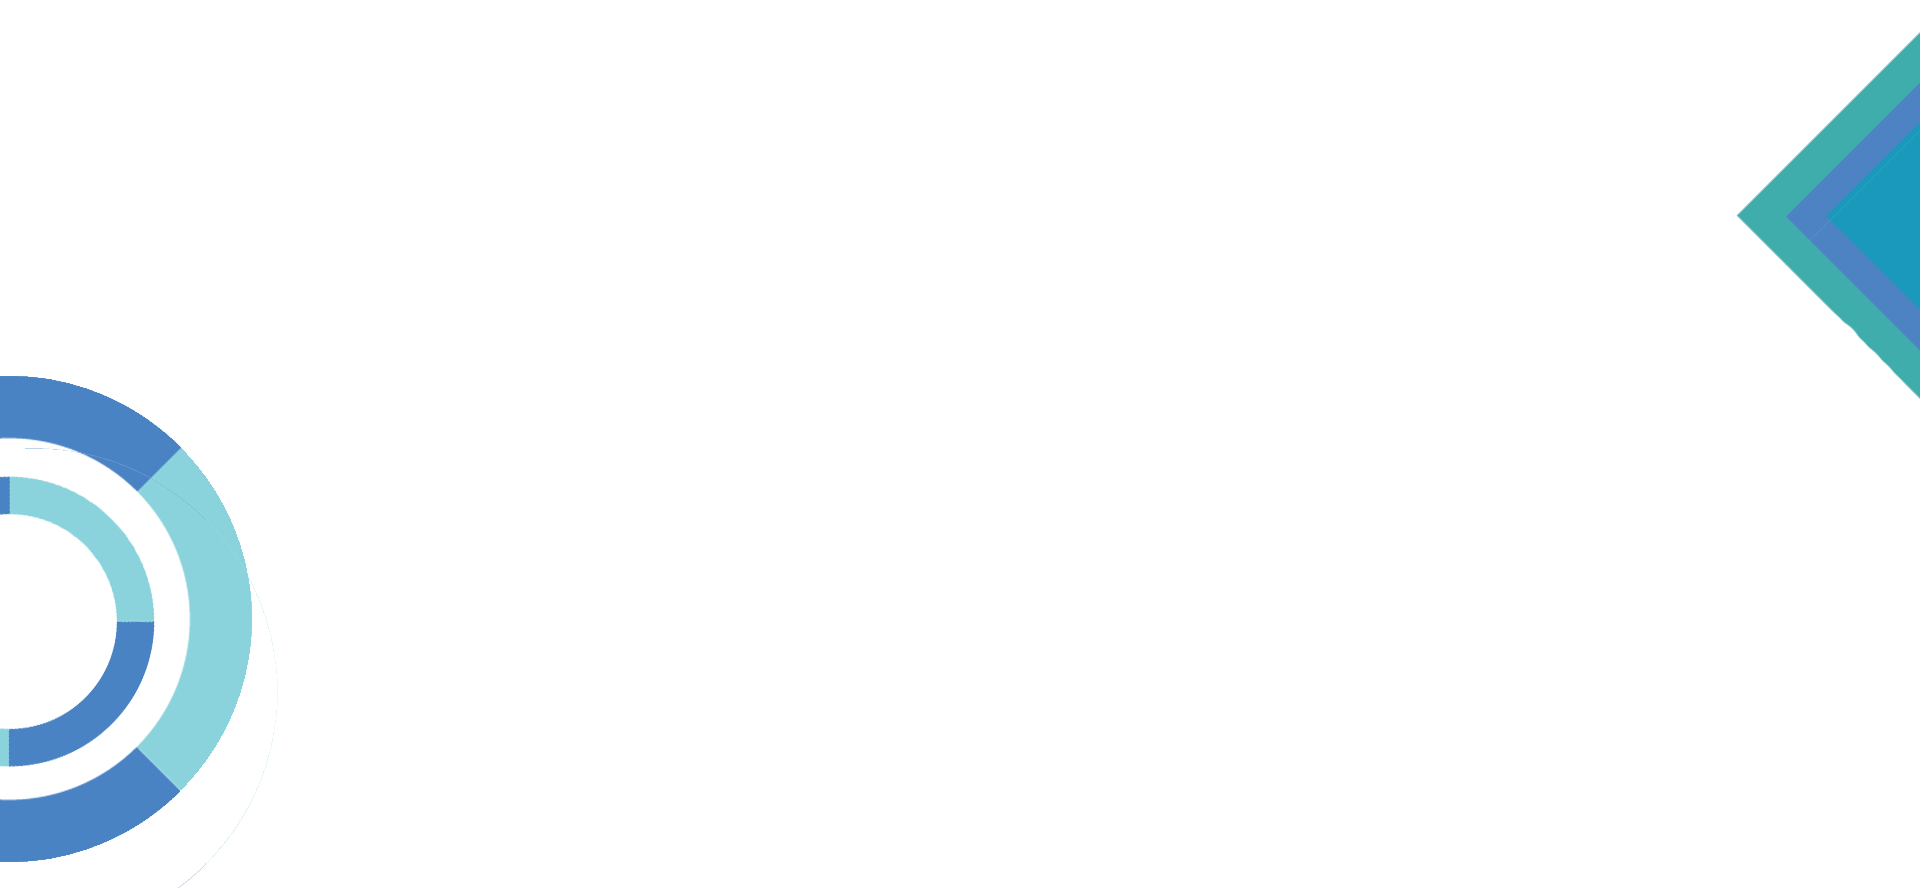
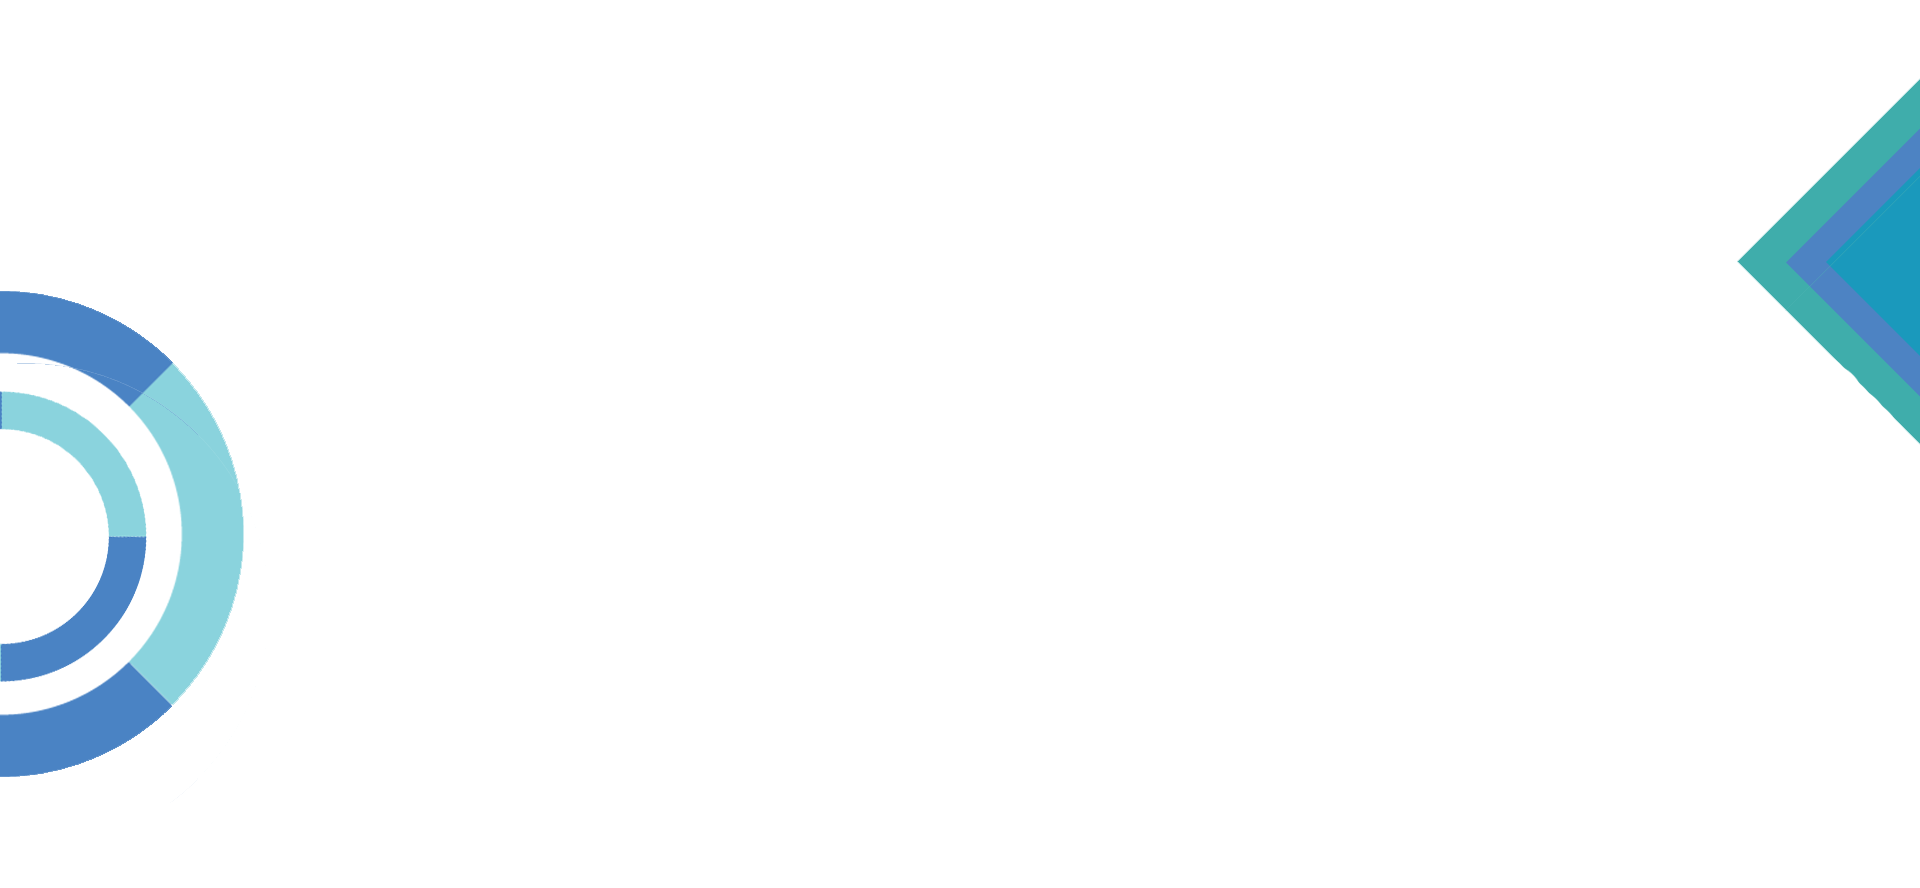
images'

Changed region(s): [[0.0, 0.3041, 0.1562, 0.973], [0.9062, 0.0304, 1.0, 0.4865]]

diff --git a/desktop.html b/desktop.html
@@ -723,41 +723,23 @@ Ojaswa Sharma completed his Ph.D. in Mathematics and Computer Science from the T
           <h4>Contact Us</h4>
           <ul class="list-unstyled">
             <li><a href="#"></a></li>
-            <li><a href="#">Payment Center</a></li>
-            <li><a href="#">Contact Directory</a></li>
-            <li><a href="#">Forms</a></li>
-            <li><a href="#">News and Updates</a></li>
-            <li><a href="#">FAQs</a></li>
+            <li><a href="#"></a></li>
+            <li><a href="#">psingh@iiitd.ac.in</a></li>
+            <li><a href="#">Phone: 011 2690 7400</a></li>
+            <li><a href="https://www.iiitd.ac.in" target="_blank">IIITD Website</a></li>
           </ul>
         </div>
       </div>
       <div class="col-md-3 col-sm-6">
         <!--Column1-->
         <div class="footer-pad">
-          <h4>Heading 2</h4>
           <ul class="list-unstyled">
-            <li><a href="#">Website Tutorial</a></li>
-            <li><a href="#">Accessibility</a></li>
-            <li><a href="#">Disclaimer</a></li>
-            <li><a href="#">Privacy Policy</a></li>
-            <li><a href="#">FAQs</a></li>
-            <li><a href="#">Webmaster</a></li>
-          </ul>
-        </div>
-      </div>
-      <div class="col-md-3 col-sm-6">
-        <!--Column1-->
-        <div class="footer-pad">
-          <h4>Heading 3</h4>
-          <ul class="list-unstyled">
-            <li><a href="#">Parks and Recreation</a></li>
-            <li><a href="#">Public Works</a></li>
-            <li><a href="#">Police Department</a></li>
-            <li><a href="#">Fire</a></li>
-            <li><a href="#">Mayor and City Council</a></li>
-            <li>
-              <a href="#"></a>
-            </li>
+            <li><a href="#aboutus">About Us</a></li>
+            <li><a href="#ourmission">Our Mission</a></li>
+            <li><a href="#teammenu">Our Team</a></li>
+            <li><a href="#labmenu">Labs</a></li>
+            <li><a href="#projectmenu">Projects</a></li>
+            <li><a href="#footermenu">Contact Us</a></li>
           </ul>
         </div>
       </div>

diff --git a/css/desktop_style.css b/css/desktop_style.css
@@ -69,9 +69,9 @@ section{
 
 #aboutus{
   background-image: url("../images/AboutsUs.png");
-  background-size:auto;
-  background-repeat: no-repeat;
-  background-position: center;
+  background-repeat:no-repeat;
+background-size:cover;
+background-position:center;
 }
 
 #Team{
